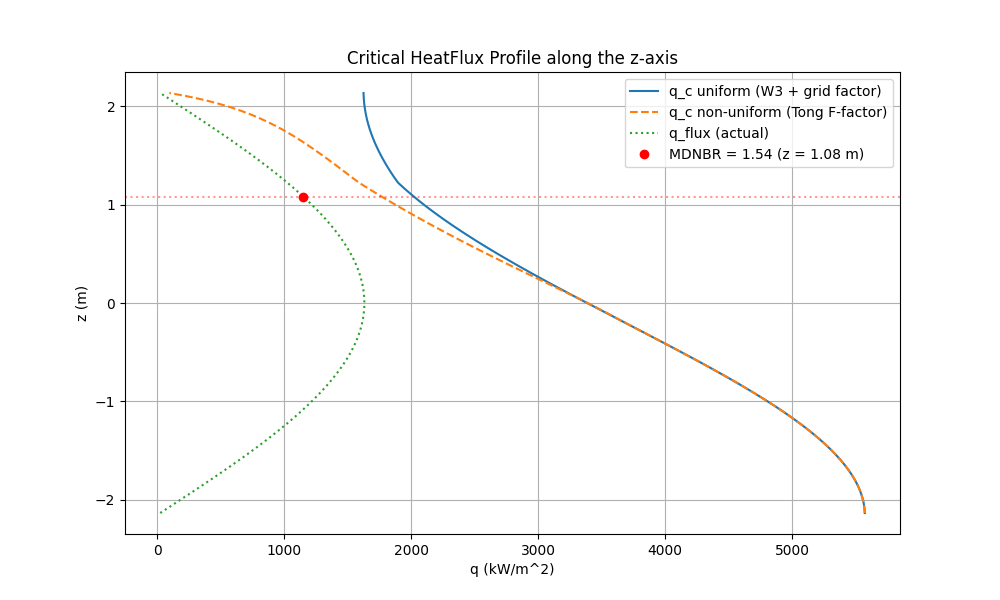
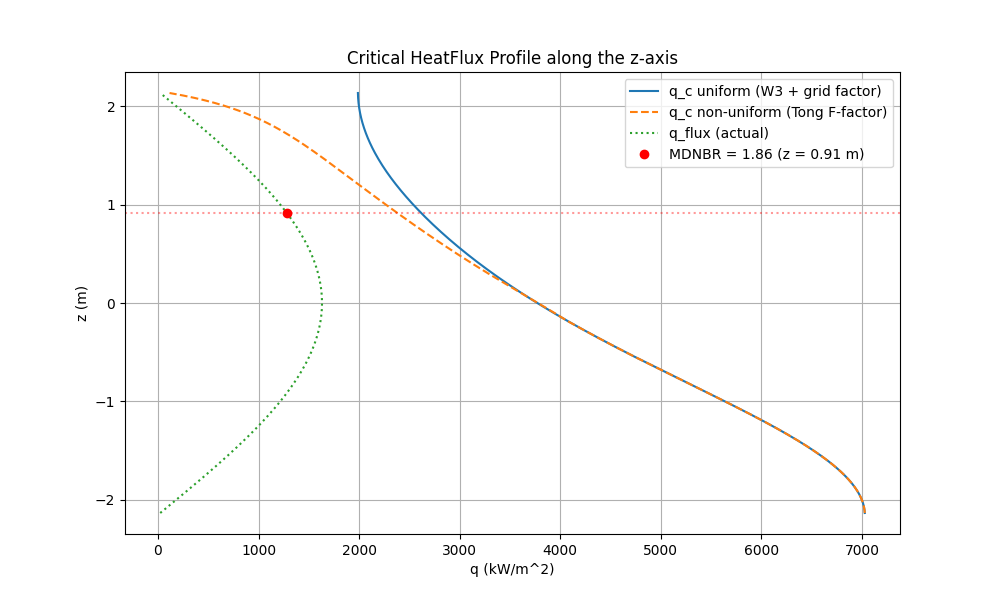
corretto critical flux

diff --git a/assignment2/assignment2.py b/assignment2/assignment2.py
@@ -1,7 +1,6 @@
 import numpy as np
 import matplotlib.pyplot as plt
 import CoolProp.CoolProp as CP
-import numpy as np
 from scipy.interpolate import interp1d
 from scipy.integrate import cumulative_trapezoid, trapezoid
 from scipy.special import j0
@@ -31,12 +30,14 @@ def volumetric_heat_generation(z, r, P_nom, n_rods, D, H_active, R_eq, F_q):
     q_avg = Tot_power / (n_rods * np.pi * (D/2)**2 * H_active)  # W/m^3
     q_v_max = q_avg * F_q  # W/m^3 (tasso massimo)
     
-    lambda_tr = 0.0029  # m (lunghezza di trasporto)
-    D_c = lambda_tr / 3  # diffusion coeff. in the core
-    D_r = 0.16  # diffusion coeff. in the reflector
-    L_r = 2.85  # m (lunghezza del riflettore)
-    delta = D_c / D_r * L_r  # transport length
-    H_e = H_active + 1.42 * lambda_tr + 2 * delta  # m altezza estrapolata
+    # Tutte le grandezze qui sono in metri (PDF le da' in cm con stessi numeri):
+    # delta = (D_C/D_R) * L_R e' adimensionale * [m] = [m] (cancellazione)
+    lambda_tr = 0.0029     # m (transport mean free path, 0.29 cm)
+    D_c = lambda_tr / 3    # m (diffusion coefficient in the core)
+    D_r = 0.16             # m (diffusion coefficient in the reflector)
+    L_r = 2.85             # m (diffusion length in the reflector)
+    delta = D_c / D_r * L_r  # m (reflector saving ~ 1.72 cm)
+    H_e = H_active + 1.42 * lambda_tr + 2 * delta  # m, altezza estrapolata
     
     # qv_profile = q_v_max * np.cos(np.pi * z / H_e) * j0(np.pi * 2.4048*r / R_eq)  # W/m^3
     qv_profile =  q_v_max * np.cos(np.pi * z / H_e)
@@ -87,7 +88,10 @@ def coolant_specific_enthalpy(z, G_avg, A_c, q_v_max, H_e, D_pellet, p_sys, H_ac
     A_fuel = np.pi / 4 * D_pellet**2  # m^2 (area del combustibile)
     
     h_in = CP.PropsSI('H', 'T', T_in + 273.15, 'P', p_sys, 'Water')  # J/kg
-    
+
+    # 1.0267 = 1/0.974: q_v_max e' basato sul 97.4% della potenza (energia nel
+    # fuel), ma il refrigerante riceve la potenza totale (energia trasferita
+    # al canale), quindi qui si "ripristina" il 100%.
     h_profile = h_in + 1.0267 * (q_v_max * A_fuel * H_e) / (W_hc * np.pi) * (np.sin(np.pi * z / H_e) + np.sin(np.pi * H_active / 2 / H_e))
     
     return h_profile, W_hc
@@ -248,8 +252,8 @@ def void_fraction(p_sys, D_eq, zz, i_ONB, i_Det, G_avg, X_flow):
     # Nelle formule empiriche come Rouhani la pressione di sistema è in MPa. 
     p_bar = p_sys / 1e5  # bar
     R_d = 2.37e-3/p_bar**0.237 # m (raggio di una bolla ROUHANI)
-    boubble_layer_thickness = 0.0666 * R_d # m (spessore dello strato di bolle BOWRING)
-    void_fraction_D = 4*boubble_layer_thickness / D_eq # void fraction at Detachment (MAURER)
+    bubble_layer_thickness = 0.0666 * R_d # m (spessore dello strato di bolle BOWRING)
+    void_fraction_D = 4*bubble_layer_thickness / D_eq # void fraction at Detachment (MAURER)
     # tratto lineare tra ONB e Detachment
     void_fraction_profile[i_ONB:i_Det] = np.linspace(0, void_fraction_D, i_Det - i_ONB)
 
@@ -270,8 +274,11 @@ def void_fraction(p_sys, D_eq, zz, i_ONB, i_Det, G_avg, X_flow):
     
     # Correlazione di Zuber-Findlay (Collier-Thome per bubbly flow)
     alpha_post_det = (x / rho_g_sat) / (C_0 * (x / rho_g_sat + (1 - x) / rho_l_sat) + C_1 * (1 / G_avg) * drift_term)
-    
-    # Raccordo il modello aggiungendo la frazione di vuoto a parete per evitare la discontinuità
+
+    # NB: a z = z_det il titolo x = 0, quindi Z-F darebbe alpha = 0, generando
+    # una discontinuità con il tratto lineare che termina a alpha_D. Per garantire
+    # la continuità sommiamo alpha_D ("strato di bolle a parete" + flow void).
+    # Approssimazione conservativa: sovrastima leggermente alpha nel bulk.
     alpha_post_det = void_fraction_D + alpha_post_det
 
     # Inserisco i valori nel profilo totale
@@ -471,9 +478,6 @@ def calculate_fuel_centerline_temperature(T_f_S_profile, q_vol_profile, A_fuel):
         T_centerline[i] = T_CL_sol
         
     return T_centerline
-    
-import numpy as np
-import matplotlib.pyplot as plt
 
 
 def solve_pellet_radial_temperature(z,q_vol_profile,T_surface,R_pellet,pellet_thermal_conductivity,Nr=100,tol=1e-6,max_iter=500,alpha=0.5):
@@ -593,7 +597,7 @@ def critical_flux_uniform(G_avg, D_eq, p_sys,h_in,h_lsat,x_c, L_active_in):
     Ks = np.array([0.066, 0.046, 0.027])
     Ks_interp = interp1d(L_s_vect, Ks, kind='linear', fill_value='extrapolate')(L_s)
 
-    Fs = (p_psi/225.896)**0.5*(1.445-0.0371*L_ft)*(np.exp((x_eq_profile+0.2)**2)-0.73)+Ks_interp*G_lb/10e6*(alpha/0.019)**0.35
+    Fs = (p_psi/225.896)**0.5*(1.445-0.0371*L_ft)*(np.exp((x_c+0.2)**2)-0.73)+Ks_interp*G_lb/1e6*(alpha/0.019)**0.35
     qc_eu = qc_w3_17*Fs  # kW/m^2 (critical heat flux corretto con il fattore di griglia)
     return qc_w3_17, qc_eu
 
@@ -640,9 +644,15 @@ def critical_flux_non_uniform(qc_eu, G_avg, z_array, q_flux_array, z_ONB_idx, x_
 
 # 11) DNBR and MINIMUM DNBR
 def DNBR_calculation(q_flux, qc_nu):
+    """
+    DNBR(z) = q_c,NU(z) / q(z).
+    IMPORTANTE: q_flux e qc_nu devono avere la STESSA unita' (entrambi kW/m^2
+    oppure entrambi W/m^2). Nel main convertiamo q_flux/1e3 perche' qc_nu e'
+    in kW/m^2 mentre q_flux nel resto del codice e' in W/m^2.
+    """
     DNBR = qc_nu / q_flux  # Dimensionless
-    MDBNR = np.min(DNBR)  # Minimum Departure from Nucleate Boiling Ratio
-    return DNBR, MDBNR
+    MDNBR = np.min(DNBR)   # Minimum Departure from Nucleate Boiling Ratio
+    return DNBR, MDNBR
     
     
 # ============================================================================
@@ -758,9 +768,9 @@ if __name__ == "__main__":
         G_avg, D_eq, p_sys, h_in_kJ, h_lsat_kJ, x_eq_completo, H_active_in)
     F_profile, qc_NU = critical_flux_non_uniform(
         qc_eu, G_avg, z, q_flux, first_onb_idx, x_eq_completo)
-    DNBR, MDBNR = DNBR_calculation(q_flux/1e3, qc_NU)  # entrambi in kW/m^2
-    MDBNR_idx = np.argmin(DNBR)
-    z_MDBNR = z[MDBNR_idx]
+    DNBR, MDNBR = DNBR_calculation(q_flux/1e3, qc_NU)  # entrambi in kW/m^2
+    MDNBR_idx = np.argmin(DNBR)
+    z_MDNBR = z[MDNBR_idx]
 
 
     # ===================================================================
@@ -895,8 +905,8 @@ if __name__ == "__main__":
                [{'x': qc_eu, 'label': 'q_c uniform (W3 + grid factor)'},
                 {'x': qc_NU, 'label': 'q_c non-uniform (Tong F-factor)', 'linestyle': '--'},
                 {'x': q_flux/1e3, 'label': 'q_flux (actual)', 'linestyle': ':'}],
-               markers=[{'x': q_flux[MDBNR_idx]/1e3, 'z': z_MDBNR, 'fmt': 'ro',
-                         'label': f'MDNBR = {MDBNR:.2f} (z = {z_MDBNR:.2f} m)'}],
-               hlines=[{'z': z_MDBNR}])
+               markers=[{'x': q_flux[MDNBR_idx]/1e3, 'z': z_MDNBR, 'fmt': 'ro',
+                         'label': f'MDNBR = {MDNBR:.2f} (z = {z_MDNBR:.2f} m)'}],
+               hlines=[{'z': z_MDNBR}])
 
 
